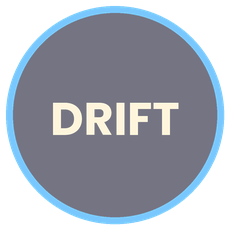
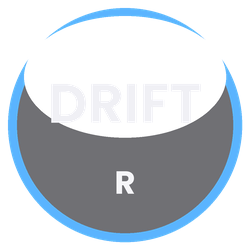
Controller-style touch controls: steering stick, GAS, DRIFT (keeps gas on), BRAKE
Claude-Session: https://claude.ai/code/session_01AHpeKXfWKxhqN1esuVxGgM

diff --git a/tools/make_ui.py b/tools/make_ui.py
@@ -1,46 +1,55 @@
 #!/usr/bin/env python3
-"""Draws the phone touch buttons (normal and pressed) and the app icon."""
-import math, sys
+"""Draws the phone touch controls (controller style: stick, GAS, DRIFT, BRAKE, pause) and the app icon."""
+import sys
 from PIL import Image, ImageDraw, ImageFont
 OUT = "game/ui/"
 FONT = "/usr/share/fonts/truetype/google-fonts/Poppins-Bold.ttf"
-S = 4  # draw big then shrink for smooth edges
+S = 4  # draw big, then shrink for smooth edges
 
-def base(size, on, ring):
+
+def circle_button(size, word, letter, ring, on):
     im = Image.new("RGBA", (size * S, size * S), (0, 0, 0, 0)); d = ImageDraw.Draw(im)
-    fill = (255, 215, 110, 200) if on else (20, 18, 45, 150)
-    d.ellipse([6 * S, 6 * S, (size - 6) * S, (size - 6) * S], fill=fill, outline=ring, width=7 * S)
-    return im, d
+    pad = 8 * S
+    body = (ring[0], ring[1], ring[2], 215) if on else (40, 40, 46, 170)
+    d.ellipse([pad, pad, size * S - pad, size * S - pad], fill=body, outline=ring + (255,), width=9 * S)
+    # soft top shine like a real button
+    d.ellipse([pad * 3, pad * 2, size * S - pad * 3, size * S * 0.55], fill=(255, 255, 255, 30 if not on else 50))
+    ink = (25, 20, 35, 255) if on else (240, 240, 245, 255)
+    f = ImageFont.truetype(FONT, int(size * 0.22) * S); w = d.textlength(word, font=f)
+    d.text((size * S / 2 - w / 2, size * S * 0.40 - size * 0.14 * S), word, font=f, fill=ink)
+    f2 = ImageFont.truetype(FONT, int(size * 0.13) * S); w2 = d.textlength(letter, font=f2)
+    d.text((size * S / 2 - w2 / 2, size * S * 0.64), letter, font=f2, fill=ink[:3] + (170,))
+    return im.resize((size, size), Image.LANCZOS)
 
-def finish(im, size, name):
-    im.resize((size, size), Image.LANCZOS).save(OUT + name)
-
-def arrow(d, size, left, col):
-    c = size * S / 2; r = size * S * 0.26
-    pts = [(c + r, c - r), (c - r * 0.9, c), (c + r, c + r)] if left else [(c - r, c - r), (c + r * 0.9, c), (c - r, c + r)]
-    d.polygon(pts, fill=col)
-
-def text(d, size, t, col, fs):
-    f = ImageFont.truetype(FONT, fs * S); w = d.textlength(t, font=f)
-    d.text((size * S / 2 - w / 2, size * S / 2 - fs * S * 0.62), t, font=f, fill=col)
 
 for on in (False, True):
     sfx = "_on" if on else ""
-    ink = (40, 20, 60, 255) if on else (255, 245, 220, 255)
-    ring = (255, 220, 120, 255)
-    for name, left in (("left", True), ("right", False)):
-        im, d = base(230, on, ring); arrow(d, 230, left, ink); finish(im, 230, f"btn_{name}{sfx}.png")
-    im, d = base(230, on, (120, 200, 255, 255)); text(d, 230, "DRIFT", ink, 46); finish(im, 230, f"btn_drift{sfx}.png")
-    im, d = base(190, on, (255, 120, 120, 255)); text(d, 190, "BRAKE", ink, 36); finish(im, 190, f"btn_brake{sfx}.png")
-im, d = base(120, False, ring)
-d.rectangle([42 * S, 36 * S, 54 * S, 84 * S], fill=(255, 245, 220, 255)); d.rectangle([66 * S, 36 * S, 78 * S, 84 * S], fill=(255, 245, 220, 255))
-finish(im, 120, "btn_pause.png")
-# app icon: the Jesus character art on a night-blue tile with a gold ring
-art = Image.open(sys.argv[1]).convert("RGBA")
-icon = Image.new("RGBA", (512, 512), (12, 16, 52, 255)); d = ImageDraw.Draw(icon)
-for i in range(256):
-    d.ellipse([256 - 250 + i // 2, 256 - 250 + i // 2, 256 + 250 - i // 2, 256 + 250 - i // 2], fill=(12 + i // 6, 16 + i // 6, 52 + i // 4, 255))
-art.thumbnail((440, 440)); icon.alpha_composite(art, ((512 - art.width) // 2, 512 - art.height - 10))
-d.ellipse([8, 8, 504, 504], outline=(255, 210, 110, 255), width=14)
-icon.save("game/icon.png")
+    circle_button(300, "GAS", "A", (90, 220, 120), on).save(OUT + f"btn_gas{sfx}.png")
+    circle_button(250, "DRIFT", "R", (90, 180, 255), on).save(OUT + f"btn_drift{sfx}.png")
+    circle_button(190, "BRAKE", "B", (255, 110, 110), on).save(OUT + f"btn_brake{sfx}.png")
+
+# steering stick, like the controller picture: a dark ring and a round thumb knob
+base = Image.new("RGBA", (300 * S, 300 * S), (0, 0, 0, 0)); d = ImageDraw.Draw(base)
+d.ellipse([4 * S, 4 * S, 296 * S, 296 * S], fill=(20, 20, 24, 150), outline=(90, 90, 100, 200), width=6 * S)
+for x, pts in ((40, [(40, 150), (70, 125), (70, 175)]), (260, [(260, 150), (230, 125), (230, 175)])):
+    d.polygon([(a * S, b * S) for a, b in pts], fill=(200, 200, 210, 160))
+base.resize((300, 300), Image.LANCZOS).save(OUT + "stick_base.png")
+knob = Image.new("RGBA", (150 * S, 150 * S), (0, 0, 0, 0)); d = ImageDraw.Draw(knob)
+d.ellipse([4 * S, 4 * S, 146 * S, 146 * S], fill=(78, 78, 86, 235), outline=(130, 130, 140, 255), width=5 * S)
+d.ellipse([22 * S, 18 * S, 128 * S, 90 * S], fill=(255, 255, 255, 28))
+knob.resize((150, 150), Image.LANCZOS).save(OUT + "stick_knob.png")
+
+im = Image.new("RGBA", (120 * S, 120 * S), (0, 0, 0, 0)); d = ImageDraw.Draw(im)
+d.ellipse([6 * S, 6 * S, 114 * S, 114 * S], fill=(40, 40, 46, 170), outline=(150, 150, 160, 255), width=5 * S)
+d.rectangle([42 * S, 36 * S, 54 * S, 84 * S], fill=(240, 240, 245, 255)); d.rectangle([66 * S, 36 * S, 78 * S, 84 * S], fill=(240, 240, 245, 255))
+im.resize((120, 120), Image.LANCZOS).save(OUT + "btn_pause.png")
+
+if len(sys.argv) > 1:   # the app icon (only remade when the art is given)
+    art = Image.open(sys.argv[1]).convert("RGBA")
+    icon = Image.new("RGBA", (512, 512), (12, 16, 52, 255)); d = ImageDraw.Draw(icon)
+    for i in range(256):
+        d.ellipse([6 + i // 2, 6 + i // 2, 506 - i // 2, 506 - i // 2], fill=(12 + i // 6, 16 + i // 6, 52 + i // 4, 255))
+    art.thumbnail((440, 440)); icon.alpha_composite(art, ((512 - art.width) // 2, 512 - art.height - 10))
+    d.ellipse([8, 8, 504, 504], outline=(255, 210, 110, 255), width=14)
+    icon.save("game/icon.png")
 print("ui done")
